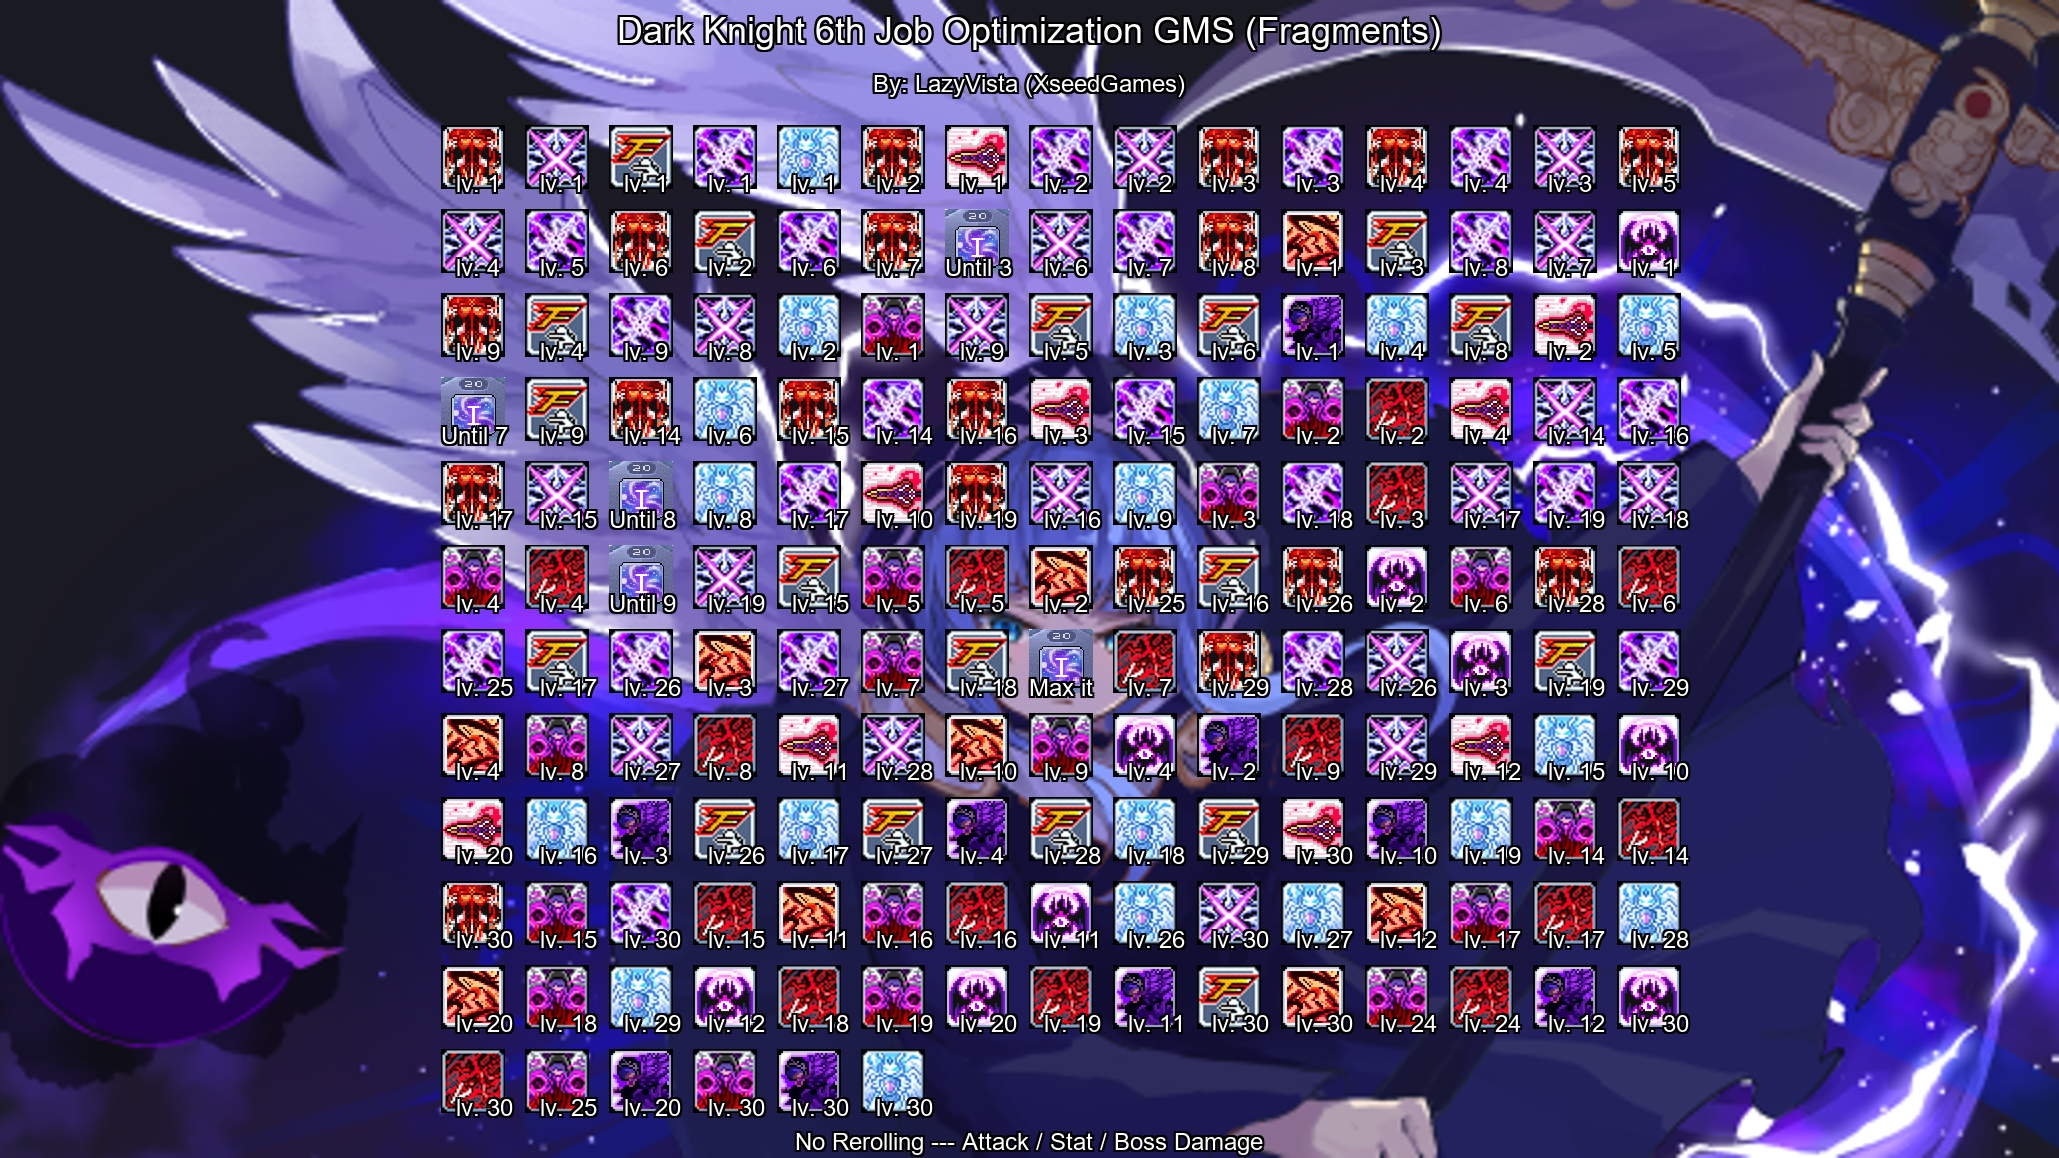
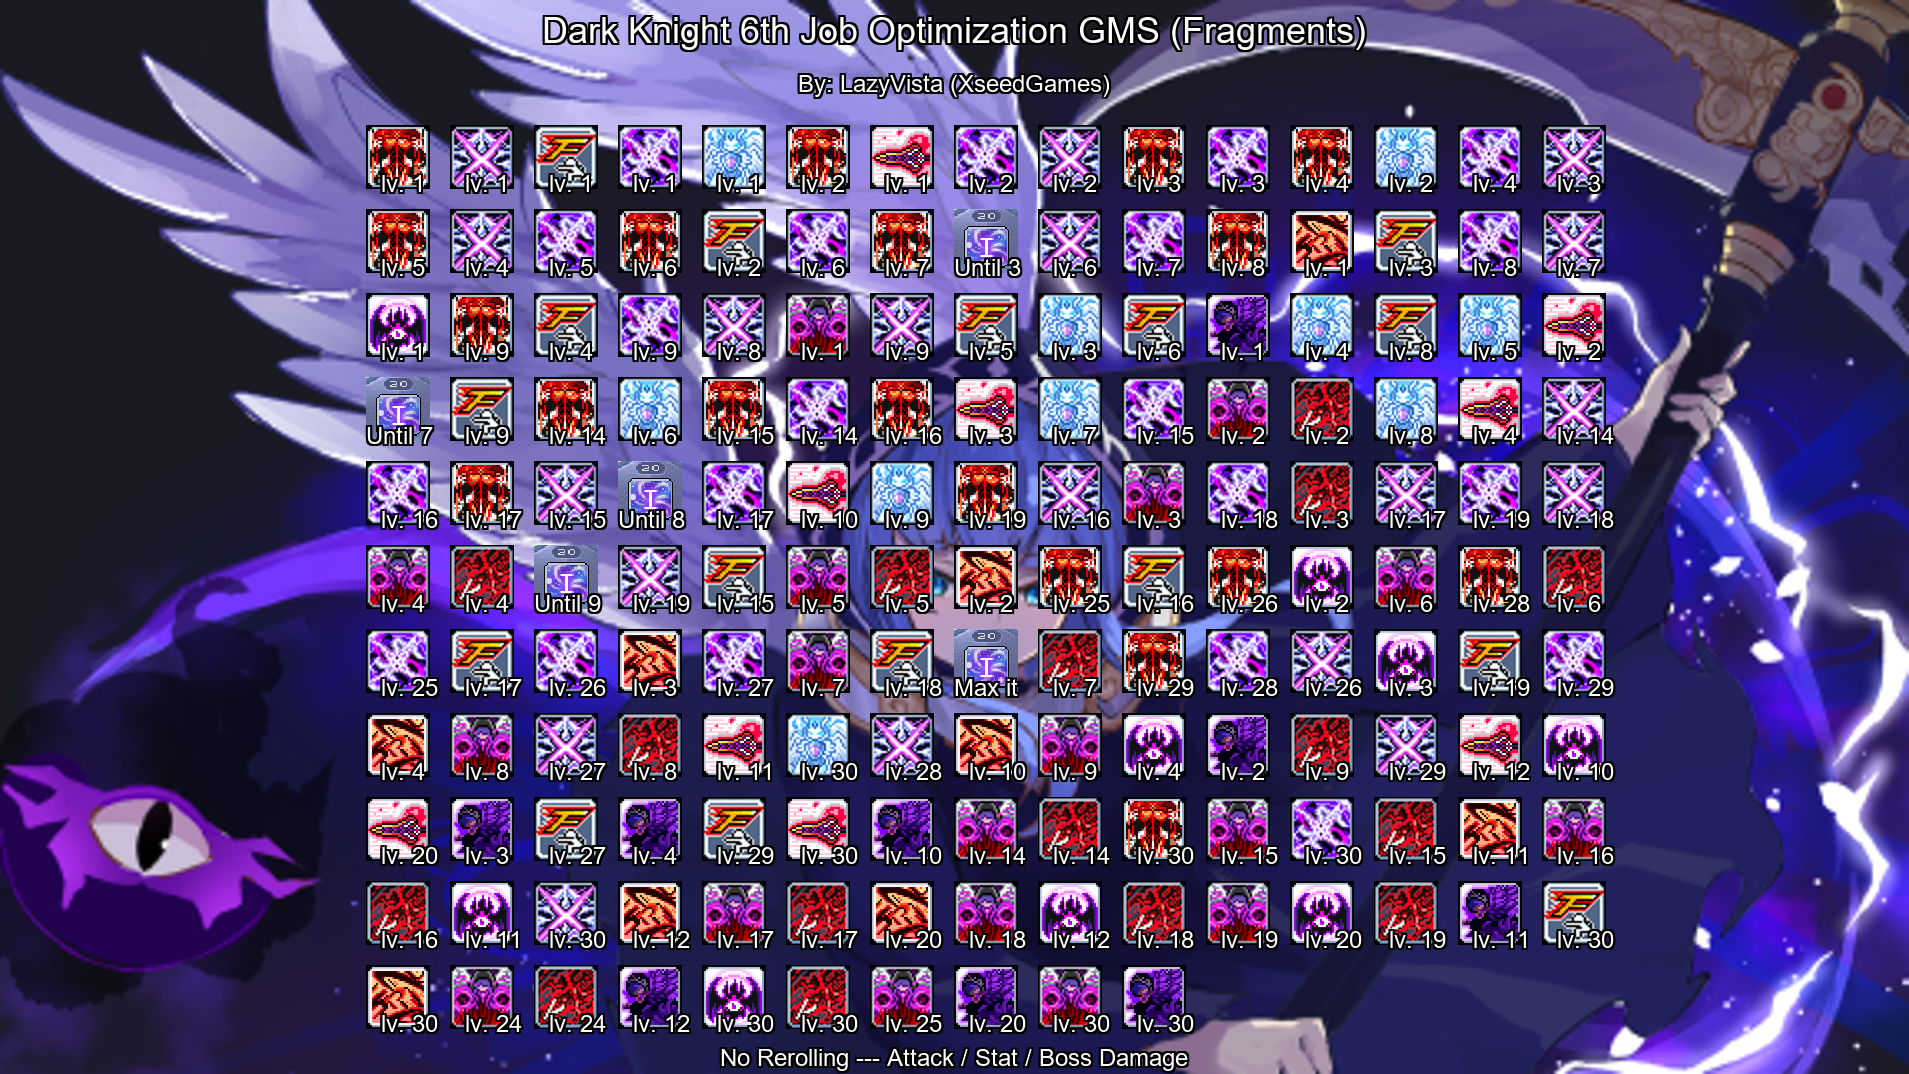
Added lv30 Sol Hectate Burst Component

diff --git a/Auto_Infographic_Optimize/Hexa_Skill_Optimize.py b/Auto_Infographic_Optimize/Hexa_Skill_Optimize.py
@@ -176,12 +176,15 @@ def Fill_Boost(List,ID,Aux,Val,Start,End):
         elif ID == "D_1":
             if i == 0:
                 List[i] = Val
-            elif (i+1) < 10:
-                DAux     = (1-Base_Numbers['Boss_Def']*(1-Base_Numbers['IED'])*(1-.2))/(1-Base_Numbers['Boss_Def']*(1-Base_Numbers['IED'])) * (1 + Base_Numbers['Damage'] + .2) / (1 + Base_Numbers['Damage'])
-                List[i] = ((172 + i * 11) * Aux * DAux / 172) * Val
             elif (i+1) < 20:
+                DAux     = (1-Base_Numbers['Boss_Def']*(1-Base_Numbers['IED'])*(1-.2))/(1-Base_Numbers['Boss_Def']*(1-Base_Numbers['IED'])) * (1 + Base_Numbers['Damage'] + .2) / (1 + Base_Numbers['Damage'])
+                List[i] = Val * round((172 + i * 11) * Aux * DAux / 172, sig_fig)
+            elif (i+1) < 30:
                 DAux     = (1-Base_Numbers['Boss_Def']*(1-Base_Numbers['IED'])*(1-.4))/(1-Base_Numbers['Boss_Def']*(1-Base_Numbers['IED'])) * (1 + Base_Numbers['Damage'] + .2) / (1 + Base_Numbers['Damage'])
-                List[i]  = ((172 + i * 11) * Aux * DAux / 172) * Val
+                List[i]  = Val * round((172 + i * 11) * Aux * DAux / 172, sig_fig)
+            elif (i+1) == 30:
+                DAux     = (1-Base_Numbers['Boss_Def']*(1-Base_Numbers['IED'])*(1-.6))/(1-Base_Numbers['Boss_Def']*(1-Base_Numbers['IED'])) * (1 + Base_Numbers['Damage'] + .2) / (1 + Base_Numbers['Damage'])
+                List[i]  = Val * round((1+(54480/((172+30*11)*60*6)))*(172 + i * 11) * Aux * DAux / 172, sig_fig)
     return List
     
 # for debugging purposes
